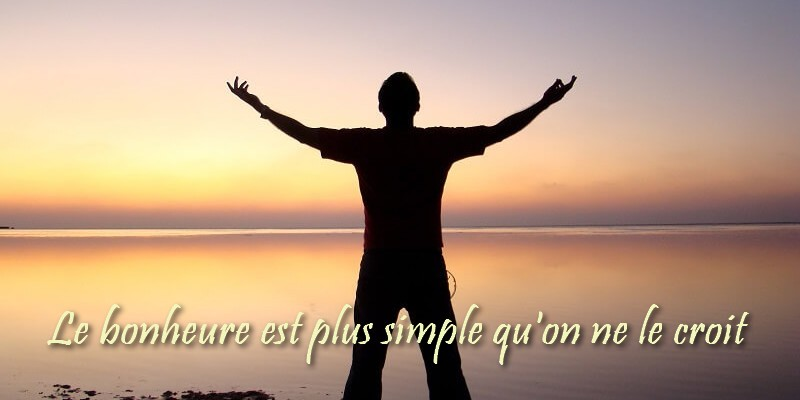
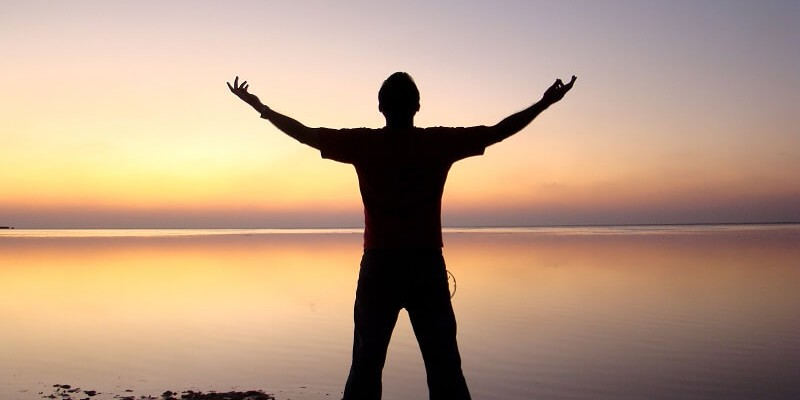
rajout text image si grand ecran

Changed region(s): [[0.0625, 0.75, 0.9375, 0.93]]

diff --git a/index.html b/index.html
@@ -28,17 +28,56 @@
       <section class="main-section">
         <div class="container">
           <div class="slider">
-            <img
-              class="slideIMG active"
-              src="images/imageSlider/healingSession.jpg"
-            />
-            <img class="slideIMG" src="images/imageSlider/butterflyHand.jpg" />
-            <img class="slideIMG" src="images/imageSlider/eyeHorizon.jpg" />
-            <img class="slideIMG" src="images/imageSlider/freedomMan.jpg" />
-            <img class="slideIMG" src="images/imageSlider/sunrise.jpg" />
-            <img class="slideIMG" src="images/imageSlider/moutainPelee.jpg" />
-            <img class="slideIMG" src="images/imageSlider/waterfall.jpg" />
-            <img class="slideIMG" src="images/imageSlider/shellSand.jpg" />
+            <picture>
+              <source
+                media="(min-width: 900px)"
+                srcset="images/imageSliderText/healingSession.jpg" />
+              <img
+                class="slideIMG active"
+                src="images/imageSlider/healingSession.jpg"
+            /></picture>
+            <picture>
+              <source
+                media="(min-width: 900px)"
+                srcset="images/imageSliderText/butterflyHand.jpg" />
+              <img class="slideIMG" src="images/imageSlider/butterflyHand.jpg"
+            /></picture>
+            <picture>
+              <source
+                media="(min-width: 900px)"
+                srcset="images/imageSliderText/eyeHorizon.jpg" />
+              <img class="slideIMG" src="images/imageSlider/eyeHorizon.jpg"
+            /></picture>
+            <picture>
+              <source
+                media="(min-width: 900px)"
+                srcset="images/imageSliderText/freedomMan.jpg" />
+              <img class="slideIMG" src="images/imageSlider/freedomMan.jpg"
+            /></picture>
+            <picture>
+              <source
+                media="(min-width: 900px)"
+                srcset="images/imageSliderText/sunrise.jpg" />
+              <img class="slideIMG" src="images/imageSlider/sunrise.jpg"
+            /></picture>
+            <picture>
+              <source
+                media="(min-width: 900px)"
+                srcset="images/imageSliderText/moutainPelee.jpg" />
+              <img class="slideIMG" src="images/imageSlider/moutainPelee.jpg"
+            /></picture>
+            <picture>
+              <source
+                media="(min-width: 900px)"
+                srcset="images/imageSliderText/waterfall.jpg" />
+              <img class="slideIMG" src="images/imageSlider/waterfall.jpg"
+            /></picture>
+            <picture>
+              <source
+                media="(min-width: 900px)"
+                srcset="images/imageSliderText/shellSand.jpg" />
+              <img class="slideIMG" src="images/imageSlider/shellSand.jpg"
+            /></picture>
           </div>
           <nav class="slider-nav">
             <ul>
